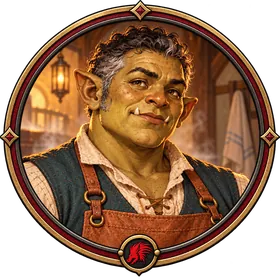
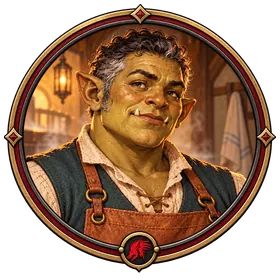
Keep token borders within transparent safety margins

diff --git a/project/npc-packs/nightly-npcs-2026-10-21.md b/project/npc-packs/nightly-npcs-2026-10-21.md
@@ -10,9 +10,9 @@ A separate contributor reviewed both complete drafts before integration and appr
 
 ## Artwork
 Built-in image generation used Tessa Brinewick as painted-style reference, then each finished portrait plus Brakka's token and the site dragon as token references. Prompts specified visible brushwork, believable anatomy, earthy palette, soft light, complete heads and shoulders, clear headroom, profession clothing/props, no lettering or extra characters. Token prompts preserved identity and specified brass/burgundy/charcoal circular frames, subtle dragon-only medallions and genuine transparent exteriors.
-Portraits exported without cropping or stretching at 960×960 RGB WebP, quality 75/method 6. Tokens exported from high-resolution RGBA originals at 280×280, quality 80/method 6.
-Borun portrait: 98,872 bytes; token: 26,988 bytes.
-Rella portrait: 88,198 bytes; token: 26,296 bytes.
+Portraits exported without cropping or stretching at 960×960 RGB WebP, quality 75/method 6. Tokens exported from high-resolution RGBA originals at 280×280 with a 4px transparent safety margin, quality 80/method 6.
+Borun portrait: 98,872 bytes; token: 25,574 bytes.
+Rella portrait: 88,198 bytes; token: 24,772 bytes.
 Lossless PNG originals are retained with the image-generation outputs and in the working batch's artwork-sources directory.
 
 ## Integration and validation
